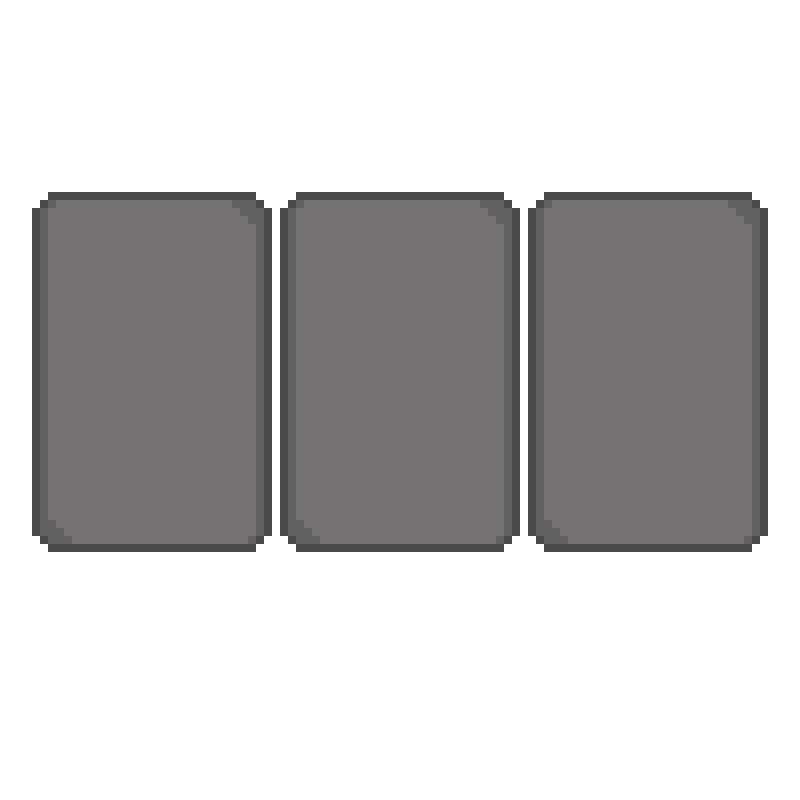
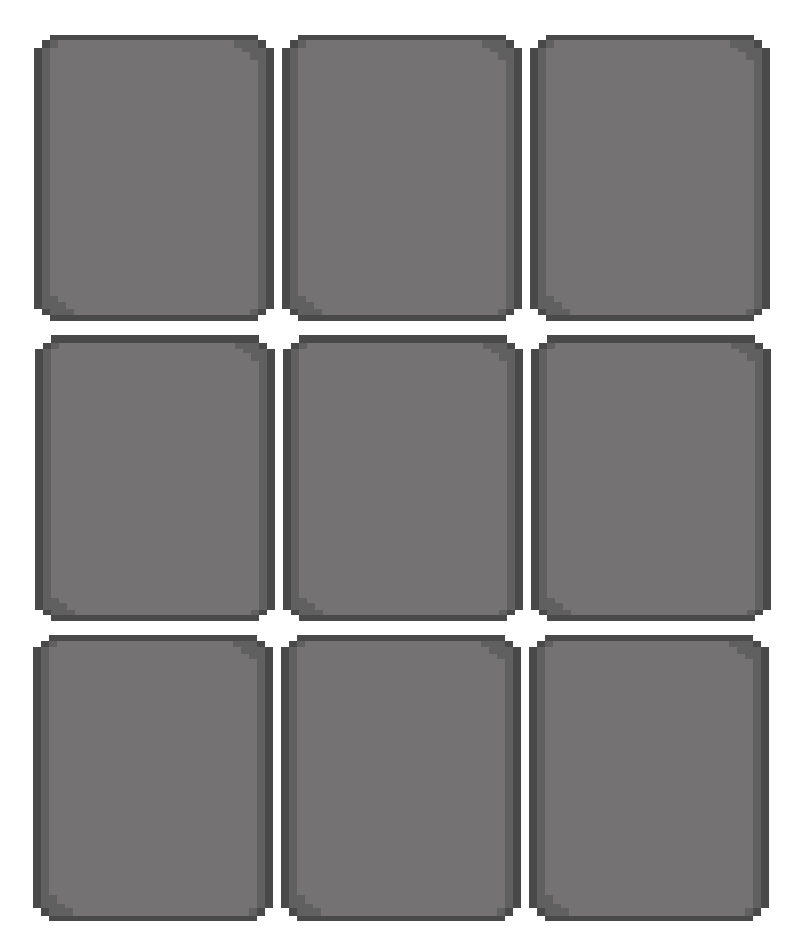
refining buy menu

diff --git a/colorsplode.js b/colorsplode.js
@@ -765,9 +765,6 @@ function levelUp(){
 
     push();
     textSize(15);
-    // if (typeof chooseButtons === 'undefined' || !Array.isArray(chooseButtons)) {
-    //   chooseButtons = [];
-    // }
 
 
     pop();
@@ -824,39 +821,41 @@ function drawLevelMenu(){
   noStroke();
   rect(0, 0, width, height);
 
-  image(levelUpChoice, 0, 0);
+  image(levelUpChoice, 15, 60, 770, 750);
 
   // Draw level choices in a 3x3 grid that fits within 800x800
   let cols = 3;
   let imageSize = 60;
-  let colSpacing = 250; // keeps columns near 70, 320, 570
-  let startX = 70;
-  let startY = 170;
+  let startX = 130;
+  let startY = 160;
 
   // create/keep an array of choose buttons so we can manage them collectively
   if (typeof chooseButtons === 'undefined' || !Array.isArray(chooseButtons)) {
     chooseButtons = [];
   }
 
+  let items = 3;
+  let itemSpacing = 240;
+  let buyScreenWidth = 800;
+
   for (let i = 0; i < levelChoices.length; i++) {
-    let col = i % cols;
     let row = Math.floor(i / cols);
-    let x = startX + col * colSpacing + (150 - imageSize) / 2; // center inside 150px column
-    let y = startY + row * 190; // row spacing
+    let x = startX + (((i%items)*itemSpacing)%buyScreenWidth) // controls column spacing
+    let y = startY + row * 235; // controls row spacing
 
     if (levelChoices[i] && levelChoices[i].sprite) {
-      image(levelChoices[i].sprite, x, y, imageSize, imageSize);
+      image(levelChoices[i].sprite, x, y-20, imageSize, imageSize);
       textSize(15);
       fill(0);
-      text(levelChoices[i].name, x, y - 20, 150);
+      text(levelChoices[i].name, x - 20, y - 40, 150);
       textSize(12);
-      text(levelChoices[i].description, x, y + 80, 180);
+      text(levelChoices[i].description, x - 50, y + 60, 200);
 
       // Only create "Choose" buttons for the first three visible choices
       if (i < 9) {
         // place button roughly centered under the block (column width 150)
-        let btnX = x + 75;
-        let btnY = y + imageSize + 90;
+        let btnX = x + 40;
+        let btnY = y + imageSize + 70;
 
         if (!chooseButtons[i]) {
           chooseButtons[i] = new Sprite(btnX, btnY);
@@ -865,7 +864,7 @@ function drawLevelMenu(){
           chooseButtons[i].height = 30;
           // color by index for quick visual distinction
           const btnColors = ["red", "green", "blue"];
-          chooseButtons[i].color = btnColors[i] || "lightgreen";
+          chooseButtons[i].color = btnColors[i%3] || "lightgreen";
         } else {
           // update position each frame so the button follows layout changes
           chooseButtons[i].x = btnX;
@@ -890,11 +889,13 @@ function drawLevelMenu(){
   mouseOverButton(chooseButton1, "pink", "red");
   mouseOverButton(chooseButton2, "lightgreen", "green");
   mouseOverButton(chooseButton3, "lightblue", "blue");
-  mouseOverButton(chooseButton4, "lightblue", "blue");
-  mouseOverButton(chooseButton5, "lightblue", "blue");
+  mouseOverButton(chooseButton4, "pink", "red");
+  mouseOverButton(chooseButton5, "lightgreen", "green");
   mouseOverButton(chooseButton6, "lightblue", "blue");
-  mouseOverButton(chooseButton7, "lightblue", "blue");
-  mouseOverButton(chooseButton8, "lightblue", "blue");
+  mouseOverButton(chooseButton7, "pink", "red");
+  mouseOverButton(chooseButton8, "lightgreen", "green");
+  mouseOverButton(chooseButton9, "lightblue", "blue");
+
 
   pop(); // restore settings
   if (chooseButton1 && chooseButton1.mouse.pressed()) {

diff --git a/itemsobstacles.js b/itemsobstacles.js
@@ -87,7 +87,7 @@ function makeItems(){
     //new Item("Yarn Ball", placeholder, "Unfinished: Control the meow thing"),
     //new Item("Mixer", placeholder, "Unfinished: Combine two colors"),
     new Item("Blatant Copyright", totem, "Revive...like in Minecraft"),
-    new Item("Bomb", bomb, "Destroy all the paint buckets in the click of a button. Press 'b' to use." ),
+    new Item("Bomb", bomb, "Destroy all the paint buckets. Press 'b' to use." ),
     new Item("Paint Scraper", scraper, "Heal after a combo of 5+"),
     //new Item("Lock", placeholder, "Unfinished: Lock a zone to prevent movement"),
     //new Item("Sponge", placeholder, "Unfinished: Will soak up paint")
